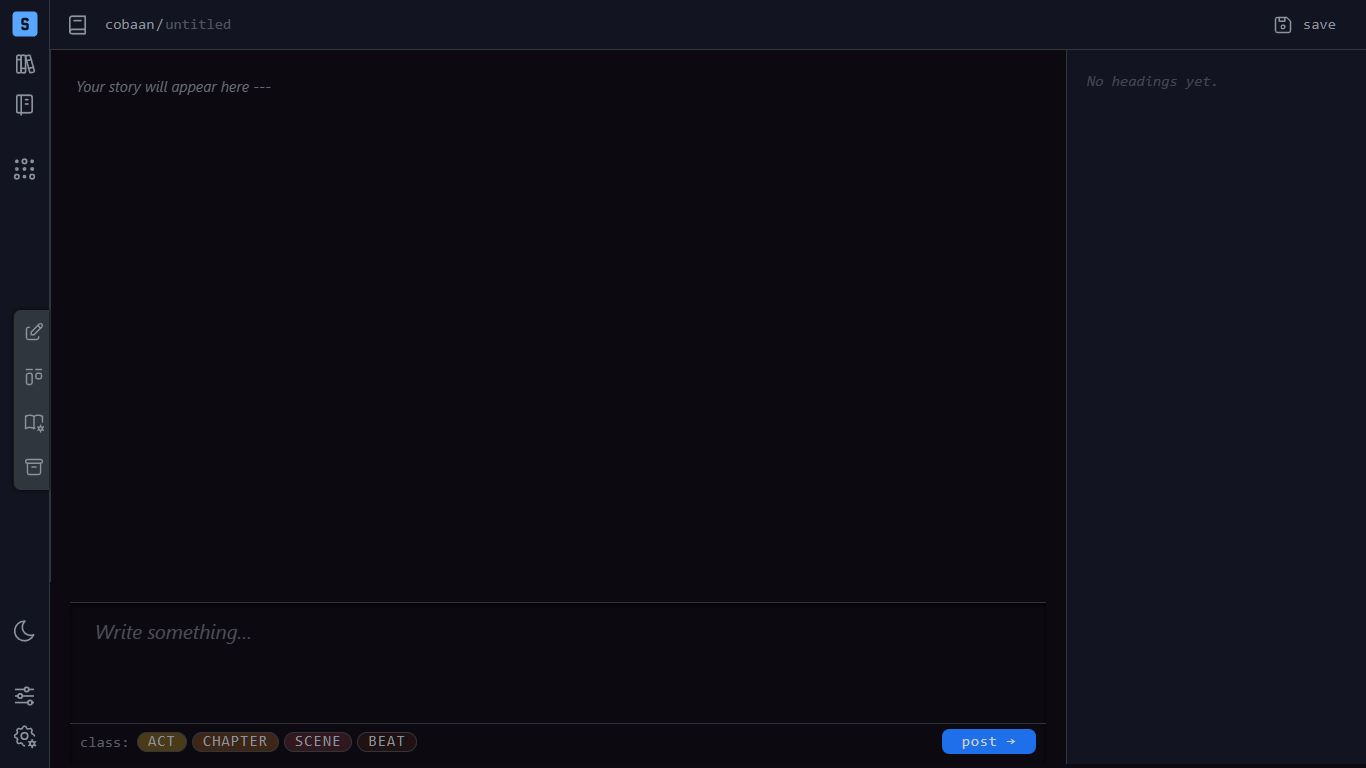
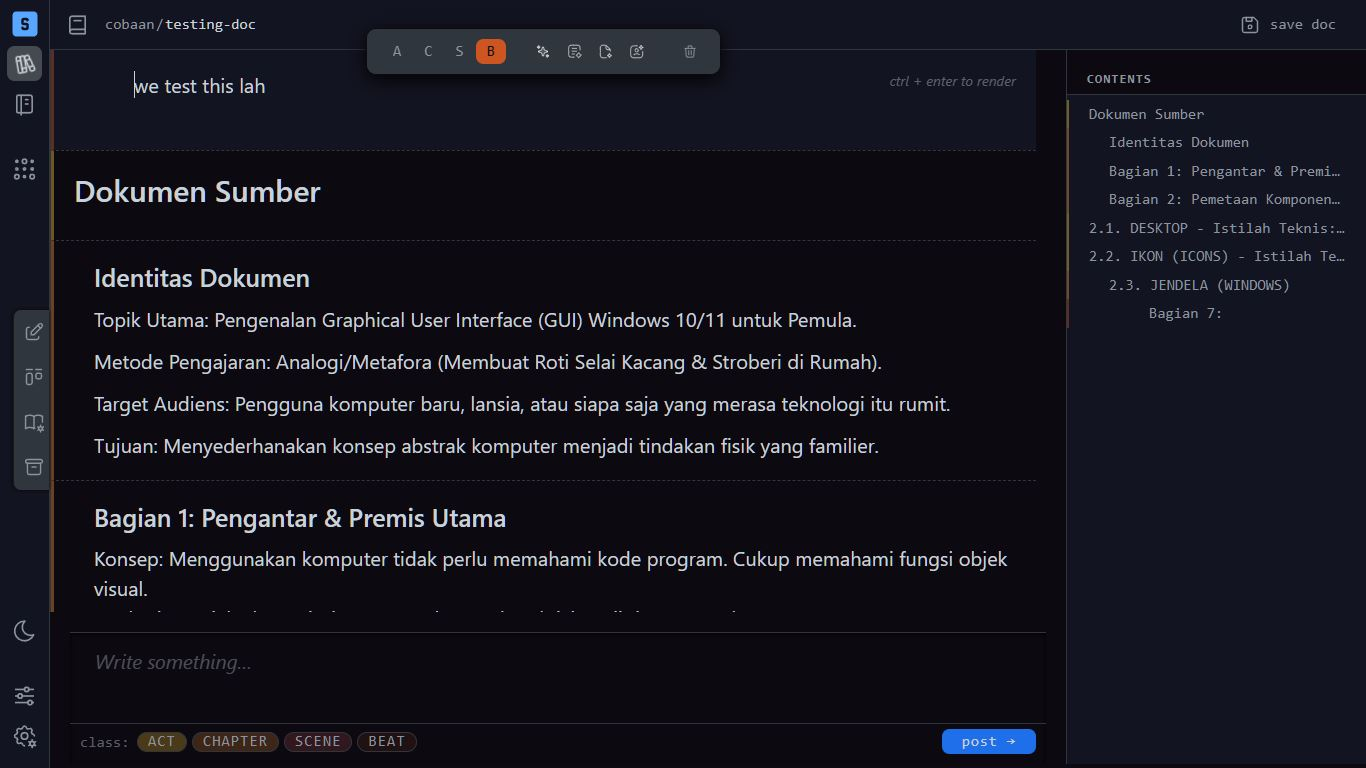
a2

diff --git a/README.md b/README.md
@@ -67,7 +67,7 @@ Drag-and-drop cards for scenes/chapters. Fully integrated with your writing file
 
 ## Screenshots
 
-![Main Blank Editor](https://raw.githubusercontent.com/tacoen/snara/main/screenshots/s1.jpg)
+![Main Editor](https://raw.githubusercontent.com/tacoen/snara/main/screenshots/s1.jpg)
 ![Kanban with todo](https://raw.githubusercontent.com/tacoen/snara/main/screenshots/s2.jpg)
 ![Notes](https://raw.githubusercontent.com/tacoen/snara/main/screenshots/s3.jpg)
 ![Exports](https://raw.githubusercontent.com/tacoen/snara/main/screenshots/s4.jpg)
